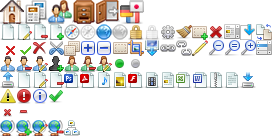
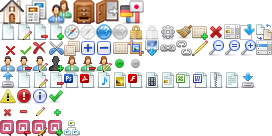
Added "Dirty Elements" Feature. Fixes #491

diff --git a/assets/stylesheets/alchemy.css b/assets/stylesheets/alchemy.css
@@ -1,3 +1,5 @@
+/* @override http://localhost:3000/stylesheets/alchemy/alchemy.css */
+
 html {
 	height: 100%;
 }
@@ -498,10 +500,10 @@ div.info {
 	line-height: 17px;
 	color: #333;
 	border: 1px solid #0b5c84;
-	-webkit-border-radius: 5px;
-	-moz-border-radius: 5px;
-	-o-border-radius: 5px;
-	border-radius: 5px;
+	-webkit-border-radius: 3px;
+	-moz-border-radius: 3px;
+	-o-border-radius: 3px;
+	border-radius: 3px;
 	background-color: #eaf4f9;
 	position: relative;
 }
@@ -511,8 +513,17 @@ div.info.footnote {
 	margin: 16px;
 }
 
-#main_content div.info {
-	margin: 16px;
+div#bottom_panel {
+	position: absolute;
+	bottom: 16px;
+	right: 0;
+	width: 100%;
+	z-index: 10;
+}
+
+div#page_sorting_notice.info {
+	margin-left: 16px;
+	margin-right: 16px;
 }
 
 p.no_padding {
@@ -948,7 +959,7 @@ div.page_infos {
 	float: none;
 	display: inline-block;
 	position: relative;
-	top: 2px;
+	top: 1px;
 	margin-left: 2px;
 }
 
@@ -1680,7 +1691,10 @@ a.button {
 	margin: 0;
 	font: 11px "Lucida Grande", "Lucida Sans", Lucida, sans-serif;
 	border: 1px solid #9a9a9a;
-	background: #f5f5f5 url(/images/alchemy/gui/shading.png) repeat-x 0 -73px;
+	background-color: #f5f5f5;
+	background-image: url(/images/alchemy/gui/shading.png);
+	background-repeat: repeat-x;
+	background-position:  0 -73px;
 	-webkit-border-radius: 3px;
 	-moz-border-radius: 3px;
 	border-radius: 3px;
@@ -2149,12 +2163,16 @@ textarea.thin_border {
 	border: 1px inset #e5e5e5;
 }
 
+.thin_border.dirty {
+	background-color: #fff8df;
+}
+
 span.icon.user_add {
 	background: url(/images/alchemy/icons.png) -48px -56px;
 }
 
 span.icon.language_add {
-	background: url(/images/alchemy/icons.png) -16px -120px;
+	background: url(/images/alchemy/icons.png) -47px -120px;
 }
 
 span.icon.user {
@@ -2335,7 +2353,7 @@ a.icon.user_delete {
 }
 
 a.icon.language_delete {
-	background: url(/images/alchemy/icons.png) -48px -120px;
+	background: url(/images/alchemy/icons.png) -16px -120px;
 }
 
 span.icon.configure_page {

diff --git a/assets/stylesheets/elements.css b/assets/stylesheets/elements.css
@@ -1,3 +1,5 @@
+/* @override http://localhost:3000/stylesheets/alchemy/elements.css */
+
 input.text_with_icon {
 	width: 343px;
 	float: left;
@@ -66,9 +68,14 @@ img.add_element_spinner {
 }
 
 .element_handle span.icon {
-	z-index: 1;	position: absolute;
+	z-index: 1;	
+	position: absolute;
 	right: 0;
 	bottom: 0;
+}
+
+.element_handle span.icon.element_dirty {
+	background-position: -29px -104px;
 }
 
 div.element_foot span.element_public {
@@ -149,6 +156,12 @@ div.element_foot span.element_public {
 	position: absolute;
 	right: 8px;
 	bottom: 6px;
+	opacity: 0.5;
+	filter: alpha(opacity=50);
+}
+
+.element_editor.dirty .element_foot .button {
+	opacity: 1;
 }
 
 .ajax_folder {
@@ -175,6 +188,15 @@ div.element_editor {
 	border-radius: 3px;
 	background-color: #f0e8d7;
 	margin-bottom: 8px;
+}
+
+div.element_editor.dirty {
+	border-color: #d0c83d;
+}
+
+div.element_editor.dirty .element_head,
+div.element_editor.dirty .element_foot {
+	background-color: #fff8df;
 }
 
 div.element_editor.selected {
